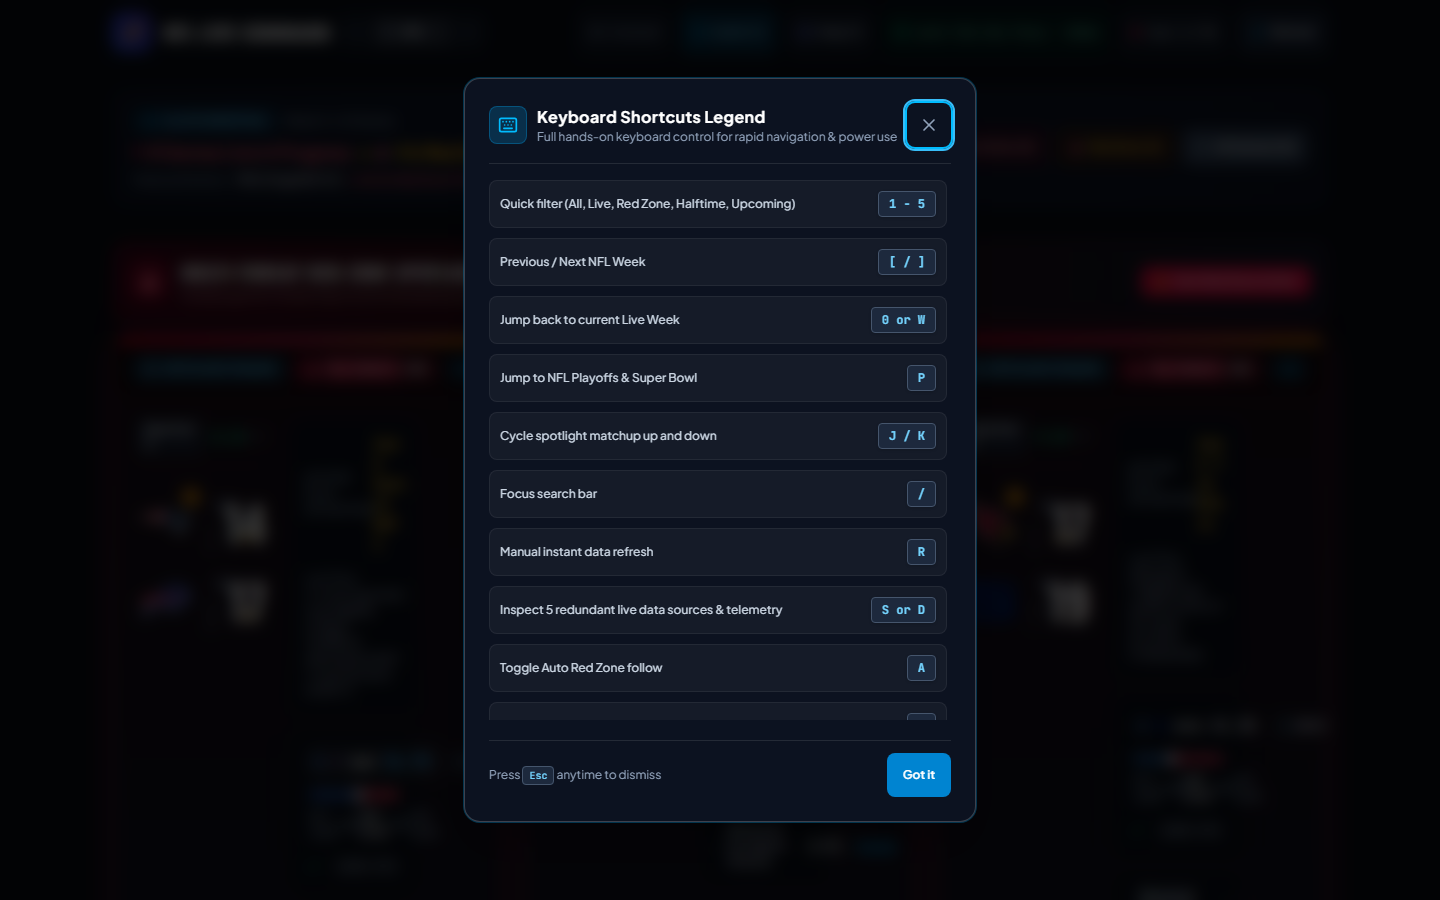
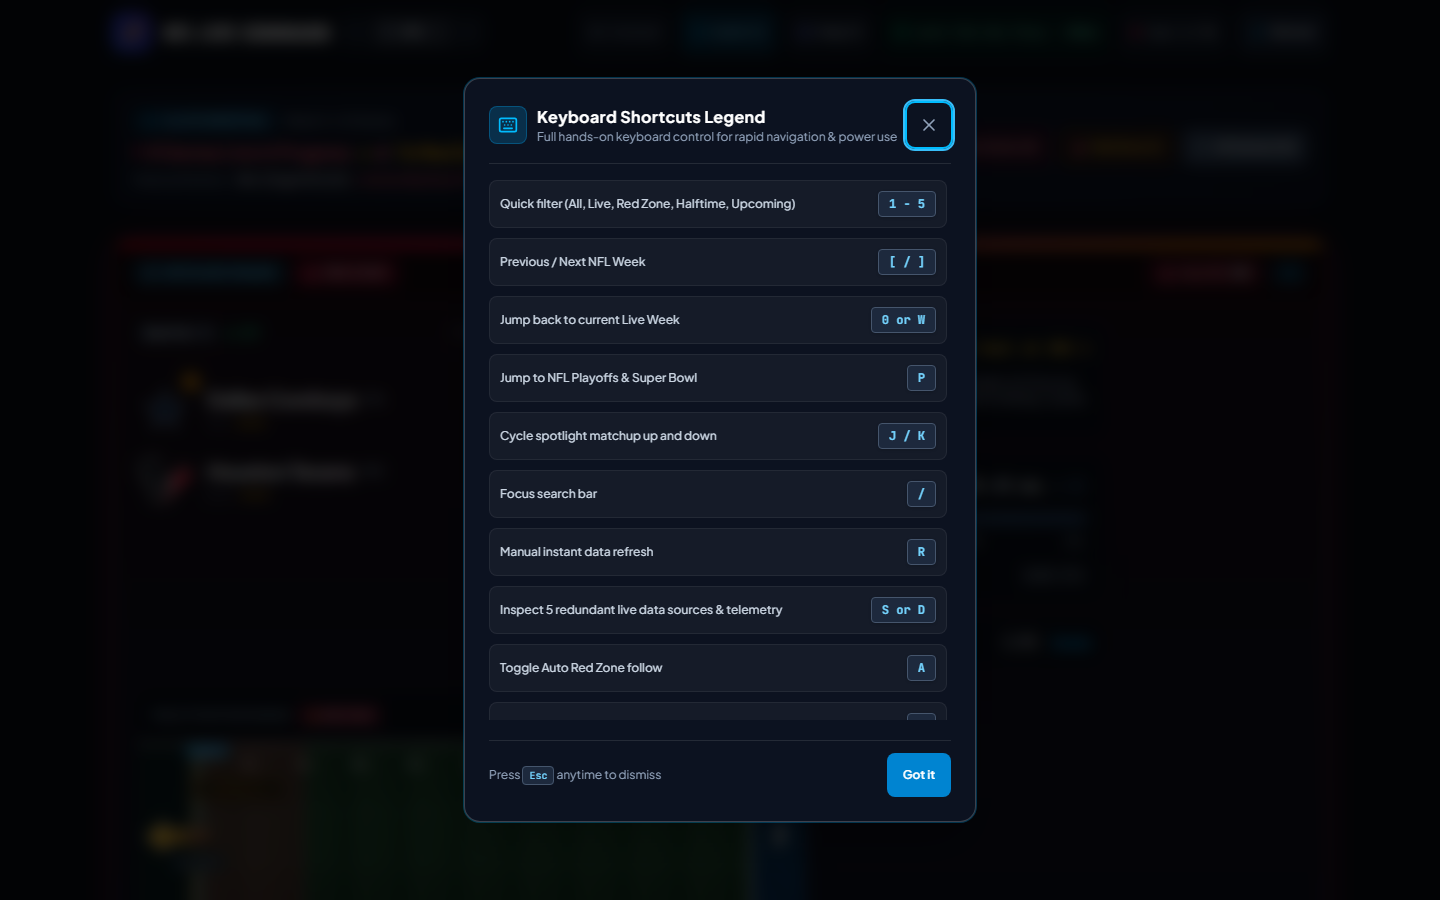
fix: remove redundant multi-threat text and streamline spotlight boxes

diff --git a/src/components/HeroMatchup.tsx b/src/components/HeroMatchup.tsx
@@ -26,6 +26,7 @@ export const HeroMatchup: React.FC<HeroMatchupProps> = ({
   threatIndex,
   totalThreats,
 }) => {
+  const isMultiThreat = Boolean(totalThreats && totalThreats > 1)
   const [isCopied, setIsCopied] = useState(false)
   const [showScorigamiDetails, setShowScorigamiDetails] = useState(false)
   const competition = event.competitions?.[0]
@@ -186,8 +187,8 @@ export const HeroMatchup: React.FC<HeroMatchupProps> = ({
         </div>
 
         <div className="flex items-center gap-1.5 sm:gap-2.5 text-xs text-slate-400 shrink-0">
-          {/* Interactive Auto Red Zone Toggle */}
-          {onToggleAutoRedZone && (
+          {/* Interactive Auto Red Zone Toggle (Only on single hero, multi-threat banner has global toggle) */}
+          {!isMultiThreat && onToggleAutoRedZone && (
             <button
               onClick={onToggleAutoRedZone}
               className={`inline-flex items-center gap-1.5 rounded-md px-2 sm:px-2.5 py-1 text-xs font-semibold border transition-all ${
@@ -229,9 +230,13 @@ export const HeroMatchup: React.FC<HeroMatchupProps> = ({
       </div>
 
       {/* Hero Content: Mobile First Hierarchy (Teams -> Field Radar -> Situation) & Desktop Side-by-Side */}
-      <div className="flex flex-col lg:grid lg:grid-cols-12 gap-5 sm:gap-6 p-4 sm:p-6">
+      <div className={
+        isMultiThreat
+          ? "flex flex-col gap-4 p-4"
+          : "flex flex-col lg:grid lg:grid-cols-12 gap-5 sm:gap-6 p-4 sm:p-6"
+      }>
         {/* Block 1: Teams & Scores */}
-        <div className="order-1 lg:order-1 lg:col-span-5 flex flex-col space-y-4 sm:space-y-6">
+        <div className={isMultiThreat ? "flex flex-col space-y-3" : "order-1 lg:order-1 lg:col-span-5 flex flex-col space-y-4 sm:space-y-6"}>
           {/* Quarter & Game Clock Banner */}
           <div className="flex items-center justify-between border-b border-white/[0.06] pb-3">
             <div className="flex items-center gap-2">
@@ -396,7 +401,7 @@ export const HeroMatchup: React.FC<HeroMatchupProps> = ({
         </div>
 
         {/* Block 2: Full Dynamic 100-Yard Field Radar (Immediately below scores on mobile & tablet, right column on desktop) */}
-        <div className="order-2 lg:order-3 lg:col-span-7 lg:row-span-2 flex flex-col justify-center">
+        <div className={isMultiThreat ? "flex flex-col justify-center" : "order-2 lg:order-3 lg:col-span-7 lg:row-span-2 flex flex-col justify-center"}>
           <FieldDiagram
             situation={situation}
             competitors={competitors}
@@ -417,7 +422,7 @@ export const HeroMatchup: React.FC<HeroMatchupProps> = ({
         </div>
 
         {/* Block 3: Key Situation, Win Probability Bar & Scorigami */}
-        <div className="order-3 lg:order-2 lg:col-span-5 flex flex-col space-y-4">
+        <div className={isMultiThreat ? "flex flex-col space-y-3.5" : "order-3 lg:order-2 lg:col-span-5 flex flex-col space-y-4"}>
           {/* Key Situation Box */}
           {isLive && (
             <div className="rounded-xl border border-white/[0.08] bg-[#090e18] p-3.5">
@@ -515,19 +520,41 @@ export const HeroMatchup: React.FC<HeroMatchupProps> = ({
       </div>
 
       {/* UK Broadcast, Radio & Live Announcers Center */}
-      <div className="border-t border-white/[0.08] bg-[#080d17]/95 px-3.5 py-3 sm:px-6">
-        <div className="flex flex-col lg:flex-row lg:items-center justify-between gap-3 text-xs">
-          {/* UK TV & UK Radio Cards */}
-          <div className="grid grid-cols-1 sm:grid-cols-2 lg:flex lg:items-center gap-2.5 sm:gap-3">
+      {isMultiThreat ? (
+        <div className="border-t border-white/[0.08] bg-[#080d17]/95 px-3.5 py-2.5">
+          <div className="flex flex-col gap-1.5 text-xs">
+            <div className="flex items-center justify-between gap-2 text-slate-300">
+              <span className="flex items-center gap-1.5 truncate">
+                <Tv className="h-3.5 w-3.5 text-sky-400 shrink-0" />
+                <strong className="text-white truncate">{broadcastDetails.ukTv}</strong>
+                <span className="text-slate-400 text-[11px] font-mono shrink-0">({broadcastDetails.ukTvChannelNumber})</span>
+              </span>
+              <span className="flex items-center gap-1.5 shrink-0 text-slate-400">
+                <Radio className="h-3.5 w-3.5 text-amber-400 shrink-0" />
+                <span className="text-slate-300 truncate max-w-[130px]">{broadcastDetails.ukRadio}</span>
+              </span>
+            </div>
+            <div className="flex items-center justify-between text-[11px] text-slate-400 border-t border-white/[0.04] pt-1">
+              <span className="flex items-center gap-1.5 truncate">
+                <Mic className="h-3 w-3 text-rose-400 shrink-0" />
+                <span className="text-slate-300 truncate">{broadcastDetails.announcers.leadDuo}</span>
+              </span>
+              <span className="text-slate-500 font-mono text-[10px] shrink-0">({broadcastDetails.usTv})</span>
+            </div>
+          </div>
+        </div>
+      ) : (
+        <div className="border-t border-white/[0.08] bg-[#080d17]/95 px-3.5 py-3 sm:px-6">
+          <div className="grid grid-cols-1 md:grid-cols-3 gap-3 text-xs">
             {/* UK TV Channel */}
             <div className="flex items-center gap-2.5 rounded-lg bg-sky-500/10 border border-sky-500/25 px-3 py-2 text-sky-200 shadow-sm">
               <div className="p-1.5 rounded-md bg-sky-500/20 text-sky-300 flex-shrink-0">
                 <Tv className="h-4 w-4" />
               </div>
-              <div>
+              <div className="min-w-0">
                 <span className="text-[10px] uppercase font-bold tracking-wider text-sky-400 block">UK Television</span>
-                <span className="font-bold text-white text-xs sm:text-sm">{broadcastDetails.ukTv}</span>
-                <span className="text-[11px] text-sky-300/80 ml-1.5 font-mono">({broadcastDetails.ukTvChannelNumber})</span>
+                <span className="font-bold text-white text-xs sm:text-sm truncate block">{broadcastDetails.ukTv}</span>
+                <span className="text-[11px] text-sky-300/80 font-mono">({broadcastDetails.ukTvChannelNumber})</span>
               </div>
             </div>
 
@@ -536,46 +563,46 @@ export const HeroMatchup: React.FC<HeroMatchupProps> = ({
               <div className="p-1.5 rounded-md bg-amber-500/20 text-amber-300 flex-shrink-0">
                 <Radio className="h-4 w-4" />
               </div>
-              <div>
+              <div className="min-w-0">
                 <span className="text-[10px] uppercase font-bold tracking-wider text-amber-400 block">UK Radio Broadcast</span>
-                <span className="font-bold text-white text-xs sm:text-sm">{broadcastDetails.ukRadio}</span>
-                <span className="text-[11px] text-amber-300/80 ml-1.5 font-mono">({broadcastDetails.ukRadioFrequency})</span>
+                <span className="font-bold text-white text-xs sm:text-sm truncate block">{broadcastDetails.ukRadio}</span>
+                <span className="text-[11px] text-amber-300/80 font-mono">({broadcastDetails.ukRadioFrequency})</span>
+              </div>
+            </div>
+
+            {/* Announcers Calling the Game */}
+            <div className="flex items-center gap-2.5 rounded-lg bg-white/[0.04] border border-white/[0.08] px-3 py-2">
+              <div className="p-1.5 rounded-md bg-rose-500/20 text-rose-300 flex-shrink-0">
+                <Mic className="h-4 w-4 text-rose-400" />
+              </div>
+              <div className="min-w-0">
+                <div className="flex items-center gap-2">
+                  <span className="text-[10px] uppercase font-bold tracking-wider text-rose-400">Live Commentary Booth</span>
+                  <span className="text-[10px] text-slate-400 font-mono">({broadcastDetails.usTv})</span>
+                </div>
+                <div className="text-slate-200 font-medium text-xs sm:text-sm truncate">
+                  <strong className="text-white font-bold">{broadcastDetails.announcers.leadDuo}</strong>
+                  {broadcastDetails.announcers.sideline && (
+                    <span className="text-slate-400 text-xs font-normal"> • Sideline: {broadcastDetails.announcers.sideline}</span>
+                  )}
+                </div>
               </div>
             </div>
           </div>
 
-          {/* Announcers Calling the Game */}
-          <div className="flex items-center gap-2.5 rounded-lg bg-white/[0.04] border border-white/[0.08] px-3 py-2">
-            <div className="p-1.5 rounded-md bg-rose-500/20 text-rose-300 flex-shrink-0">
-              <Mic className="h-4 w-4 text-rose-400" />
+          {/* UK Studio Pundits & Streaming Options */}
+          <div className="mt-2.5 pt-2 border-t border-white/[0.05] flex flex-wrap items-center justify-between gap-2 text-[11px] text-slate-400">
+            <div className="flex items-center gap-1.5">
+              <span className="font-semibold text-slate-300">UK Studio:</span>
+              <span>{broadcastDetails.ukPundits}</span>
             </div>
-            <div>
-              <div className="flex items-center gap-2">
-                <span className="text-[10px] uppercase font-bold tracking-wider text-rose-400">Live Commentary Booth</span>
-                <span className="text-[10px] text-slate-400 font-mono">({broadcastDetails.usTv} Production)</span>
-              </div>
-              <div className="text-slate-200 font-medium text-xs sm:text-sm">
-                <strong className="text-white font-bold">{broadcastDetails.announcers.leadDuo}</strong>
-                {broadcastDetails.announcers.sideline && (
-                  <span className="text-slate-400 text-xs font-normal"> • Sideline: <span className="text-slate-300">{broadcastDetails.announcers.sideline}</span></span>
-                )}
-              </div>
+            <div className="flex items-center gap-1.5 text-slate-400">
+              <span className="font-semibold text-slate-300">Streaming:</span>
+              <span className="text-slate-400">{broadcastDetails.streaming}</span>
             </div>
           </div>
         </div>
-
-        {/* UK Studio Pundits & Streaming Options */}
-        <div className="mt-2.5 pt-2 border-t border-white/[0.05] flex flex-wrap items-center justify-between gap-2 text-[11px] text-slate-400">
-          <div className="flex items-center gap-1.5">
-            <span className="font-semibold text-slate-300">UK Studio:</span>
-            <span>{broadcastDetails.ukPundits}</span>
-          </div>
-          <div className="flex items-center gap-1.5 text-slate-400">
-            <span className="font-semibold text-slate-300">Streaming:</span>
-            <span className="text-slate-400">{broadcastDetails.streaming}</span>
-          </div>
-        </div>
-      </div>
+      )}
     </section>
   )
 }

diff --git a/src/components/Dashboard.tsx b/src/components/Dashboard.tsx
@@ -825,23 +825,18 @@ export const Dashboard: React.FC = () => {
           ) : (
             <section className="space-y-4" aria-label="Simultaneous Red Zone Spotlights">
               {/* Multi-Threat Red Zone Header Banner */}
-              <div className="flex flex-wrap items-center justify-between gap-3 rounded-2xl border border-rose-500/30 bg-gradient-to-r from-rose-950/70 via-red-950/40 to-[#0e1626] p-4 shadow-xl shadow-rose-950/30">
+              <div className="flex flex-wrap items-center justify-between gap-3 rounded-2xl border border-rose-500/30 bg-gradient-to-r from-rose-950/70 via-red-950/40 to-[#0e1626] p-3.5 sm:p-4 shadow-xl shadow-rose-950/30">
                 <div className="flex items-center gap-3">
-                  <span className="flex h-10 w-10 items-center justify-center rounded-xl bg-rose-600/30 border border-rose-500/50 text-rose-300 shadow-md">
-                    <Flame className="h-6 w-6 text-rose-400 fill-rose-400 animate-pulse" />
+                  <span className="flex h-9 w-9 sm:h-10 sm:w-10 items-center justify-center rounded-xl bg-rose-600/30 border border-rose-500/50 text-rose-300 shadow-md shrink-0">
+                    <Flame className="h-5 w-5 sm:h-6 sm:w-6 text-rose-400 fill-rose-400 animate-pulse" />
                   </span>
-                  <div>
-                    <div className="flex items-center gap-2.5 flex-wrap">
-                      <h2 className="font-['Oswald'] text-lg sm:text-xl font-bold uppercase tracking-wide text-white">
-                        Multi-Threat Red Zone Spotlight
-                      </h2>
-                      <span className="rounded-full bg-rose-500/30 border border-rose-500/60 px-2.5 py-0.5 text-xs font-black text-rose-200 animate-pulse">
-                        {spotlightMatchups.length} ACTIVE THREATS
-                      </span>
-                    </div>
-                    <p className="text-xs text-rose-200/80 mt-0.5">
-                      Multiple games threatening to score simultaneously • Showing all active Red Zone drives side-by-side without flicking
-                    </p>
+                  <div className="flex items-center gap-2.5 flex-wrap">
+                    <h2 className="font-['Oswald'] text-base sm:text-xl font-bold uppercase tracking-wide text-white">
+                      Multi-Threat Red Zone Spotlight
+                    </h2>
+                    <span className="rounded-full bg-rose-500/30 border border-rose-500/60 px-2.5 py-0.5 text-xs font-black text-rose-200 animate-pulse">
+                      {spotlightMatchups.length} ACTIVE THREATS
+                    </span>
                   </div>
                 </div>
 

diff --git a/src/components/WinProbabilityBar.tsx b/src/components/WinProbabilityBar.tsx
@@ -287,12 +287,12 @@ export const WinProbabilityBar: React.FC<WinProbabilityBarProps> = memo(({
       </div>
 
       {/* Bar Scale Labels (25%, 50%, 75%) */}
-      <div className="mt-1.5 flex items-center justify-between px-1 text-xs font-mono text-slate-400">
-        <span>{homeAbbr} 100%</span>
+      <div className="mt-1.5 flex items-center justify-between px-1 text-[11px] font-mono text-slate-400 select-none">
+        <span>{homeAbbr}</span>
         <span>25%</span>
-        <span className="font-bold text-slate-200">50% EVEN</span>
+        <span className="font-bold text-slate-200">50%</span>
         <span>75%</span>
-        <span>{awayAbbr} 100%</span>
+        <span>{awayAbbr}</span>
       </div>
 
       {/* Favored / Projected Insight Strip */}
